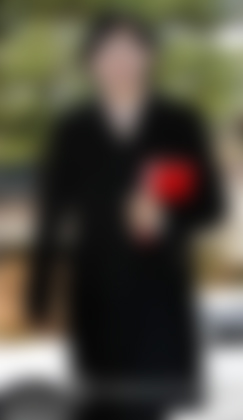
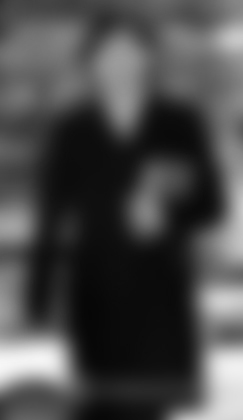
issue #247 사진을 흑백으로 처리함 issue #248 기사 읽음 인식에 대한 기능 개선

diff --git a/webapp/WEB-INF/scripts/main/app/APP.article.js b/webapp/WEB-INF/scripts/main/app/APP.article.js
@@ -11,8 +11,17 @@ var ScrollCheck = {
 		this.eventBind();
 	},
 	eventBind: function(){
+		
 		$('body')[0].addEventListener('touchmove', this.checkScrollPos.bind(this));
-		$('body')[0].addEventListener('touchend', this.checkScrollPos.bind(this));
+		$('body')[0].addEventListener('touchend', function(){
+			setTimeout(this.delayDraw.bind(this, 5), 200);
+		}.bind(this));
+	},
+	delayDraw: function(num){
+		if(num >= 1){
+			this.checkScrollPos();
+			this.delayDraw(--num);
+		}
 	},
 	checkScrollPos: function(){
 		if($(document).scrollTop() >= this.maxScrollPos){

diff --git a/webapp/WEB-INF/scripts/main/app/APP.list-move.js b/webapp/WEB-INF/scripts/main/app/APP.list-move.js
@@ -194,7 +194,7 @@ var Timer = {
 	controlTimer: function(){
 		var time = this.getRemainTime();
 		this.saveTimes(time);
-		setTimeout(this.drawClock.bind(this,5), 10);
+		setTimeout(this.drawClock.bind(this,5), 1000);
 	},
 	getRemainTime: function(){
 		var curDT = new Date();
